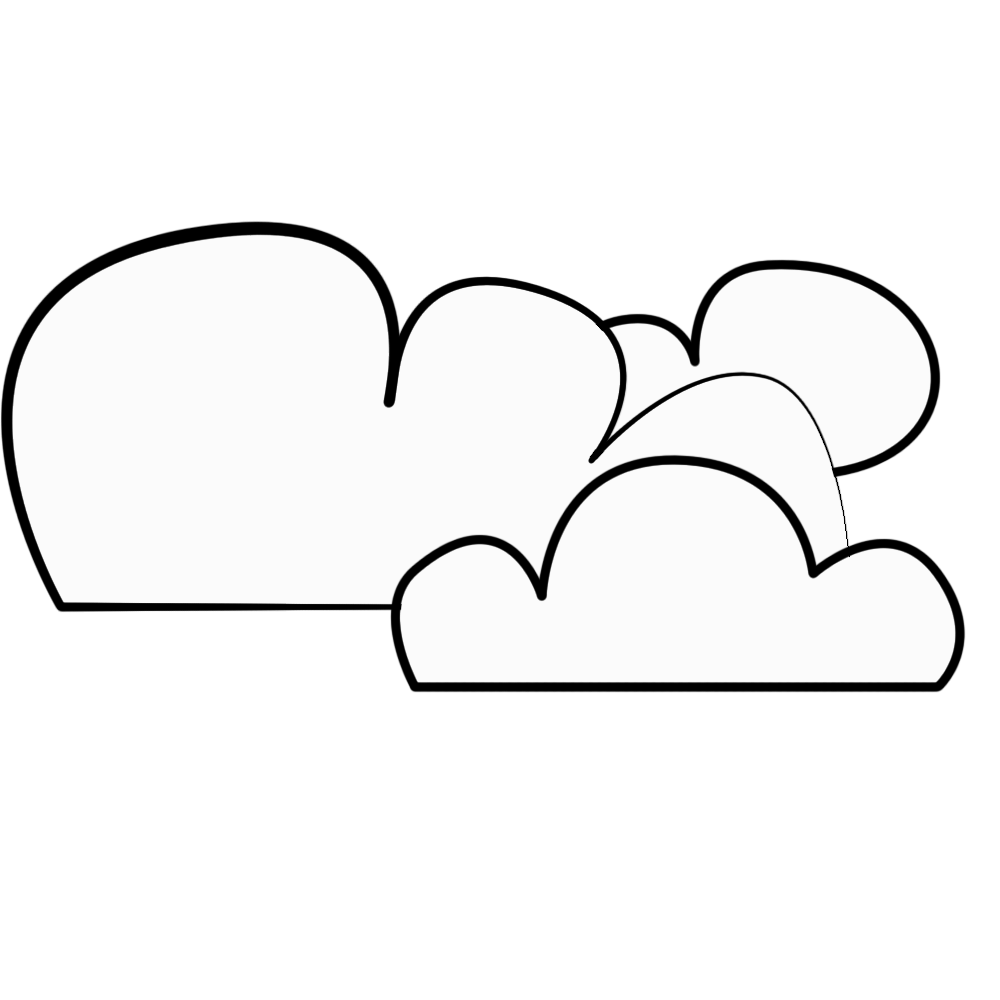
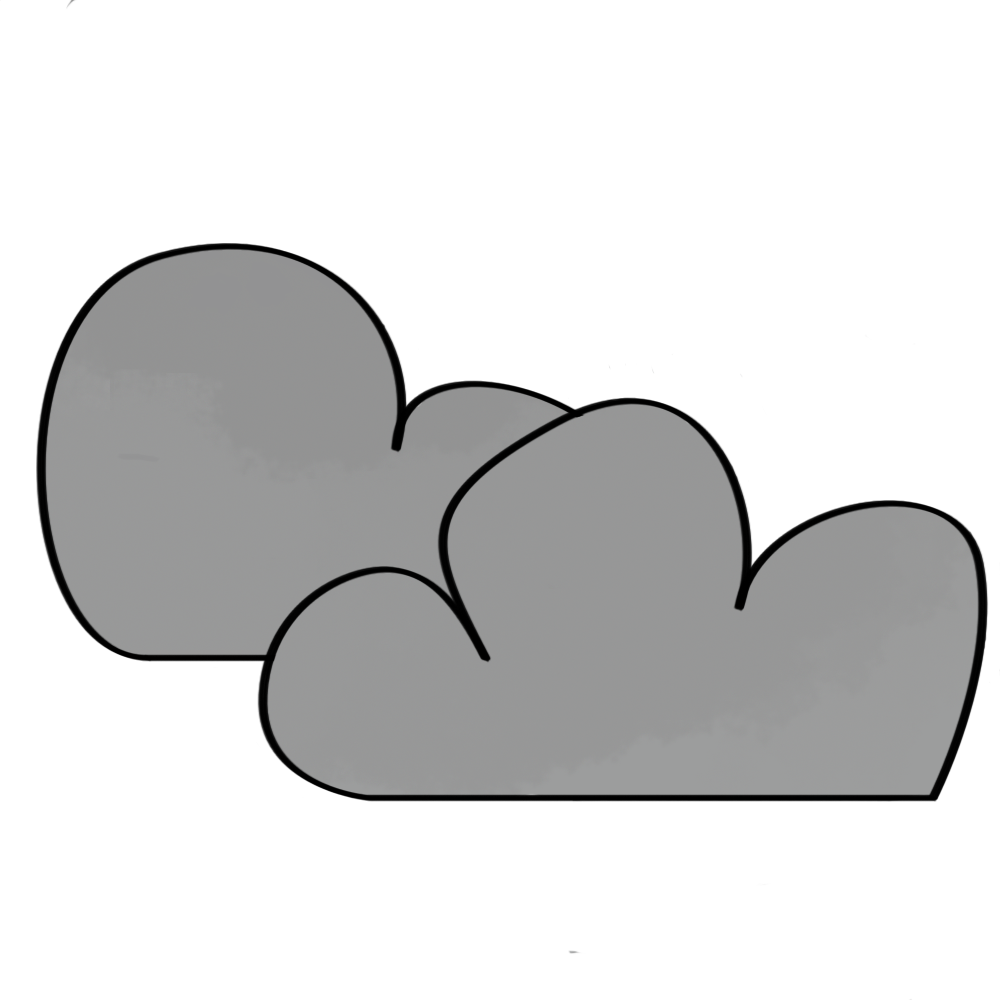
Current tima and search
Add some more perfection for the aplication, like wind, humidity, state,change background, and added new image for the storm, raind, snow, nuvole

diff --git a/src/index.js b/src/index.js
@@ -13,7 +13,7 @@ function currentTime() {
   let hour = currentDate.getHours();
   let minute = currentDate.getMinutes();
   if (minute < 10) {
-    minute = `0${minutes}`;
+    minute = `0${minute}`;
   }
   let dayForm = document.querySelector("#date-content");
   dayForm.innerHTML = `${day} ${hour}:${minute}`;
@@ -39,6 +39,8 @@ function searchTemp(responsive) {
   let searchTemp = Math.round(responsive.data.main.temp);
   let h1Temp = document.querySelector(".current-temperature");
   h1Temp.innerHTML = `${searchTemp} C°`;
+  infoState(responsive);
+  changeBK(searchTemp);
 }
 
 //funzione per cambiare da F a C e viceversa
@@ -50,6 +52,8 @@ function changeTempType(event) {
   let changeType = document.querySelector(".current-temperature"); //per cambiare l'h1
 
   let temp = changeType.textContent.substring(0, 2); //leggo i gradi
+  let change = Math.round(((temp - 32) * 5) / 9);
+  changeBK(change);
 
   //se il tipo è c allora converto tutto
   if (typeTemp.textContent === "°C") {
@@ -70,7 +74,7 @@ function changeTempType(event) {
 function getCurrentTemperature() {
   navigator.geolocation.getCurrentPosition(positionNow);
 }
-
+//posizione attuale
 function positionNow(position) {
   let latitude = position.coords.latitude;
   let longitude = position.coords.longitude;
@@ -80,7 +84,7 @@ function positionNow(position) {
 
   axios.get(urlApi).then(currentTemp);
 }
-
+//temperatura del posto in cui si trova - corrente/attuale
 function currentTemp(responsive) {
   let temp = Math.round(responsive.data.main.temp - 273.15); //ha i kelvin in temperatura ecosi si converte in celsius
   let city = responsive.data.name;
@@ -90,13 +94,44 @@ function currentTemp(responsive) {
 
   h1City.innerHTML = city;
   h1Temp.innerHTML = temp + "°C";
+  changeBK(temp);
+  infoState(responsive);
 }
+//altre info -wind-stat-prec
+function infoState(responsive) {
+  let stateInfo = document.querySelector("#state-info");
+  let windInfo = document.querySelector("#wind-info");
+  let humidityInfo = document.querySelector("#humidity-info");
+  //let nuvoleInfo = document.querySelector(".state-info");
+  let getDescription = responsive.data.weather[0].description;
 
+  stateInfo.innerHTML = getDescription;
+
+  let getWind = Math.round(responsive.data.wind.speed);
+  windInfo.innerHTML = getWind;
+  let getHumidity = Math.round(responsive.data.main.humidity);
+  humidityInfo.innerHTML = getHumidity;
+  //let getnuvole = responsive.data.clouds;
+}
+//cambio background
+function changeBK(info) {
+  let backgroundChange = document.querySelector(".main");
+  let backgroundHTML = document.querySelector("html");
+  let backgroundBody = document.querySelector("body");
+  if (info >= 20) {
+    backgroundChange.style.backgroundImage = "url(img/bk-hot.png)";
+    backgroundHTML.style.backgroundColor = "rgb(230, 204, 174)";
+    backgroundBody.style.background = "rgb(230, 204, 174)";
+  } else {
+    backgroundChange.style.backgroundImage = `url(img/bk-cold.png)`;
+    backgroundHTML.style.backgroundColor = "#97ddd8";
+    backgroundBody.style.background = "#97ddd8";
+  }
+}
+currentTime();
 //searchbutton
 let cityForm = document.querySelector("#city-form");
 cityForm.addEventListener("submit", searchCity);
-
-currentTime();
 
 //change temp type f c
 let typeTemp = document.querySelector("#current-type");

diff --git a/index.html b/index.html
@@ -3,7 +3,7 @@
   <head>
     <title>Meteo</title>
     <meta charset="UTF-8" />
-     <script src="https://unpkg.com/axios/dist/axios.min.js"></script>
+    <script src="https://unpkg.com/axios/dist/axios.min.js"></script>
 
     <link
       href="https://cdn.jsdelivr.net/npm/bootstrap@5.0.1/dist/css/bootstrap.min.css"
@@ -31,16 +31,21 @@
       </form>
 
       <div class="row today">
-        <div class="col centro">
-        <h2>Sun</h2>
-        <h1 class="current-temperature">27° C       </h1>  <a href="#" id="current-type">°F</a>  <p class>
-          wind: 14km/h <br />
-         <span id="date-content">current time: 15:00</span> 
-         </p>
-</div>
-<div class="col">
-        <img src="img/sun.png" class="current-img" /><br /></div>
-       
+        <div class="col-7 centro">
+          <h2>Sun</h2>
+          <h1 class="current-temperature">27° C</h1>
+          <a href="#" id="current-type">°F</a>
+
+          <h4 id="date-content">current time: 15:00</h4>
+
+          Wind: <span id="wind-info">14</span> km/h <br />
+          Humidity: <span id="humidity-info">10</span>%<br />
+          State: <span id="state-info">Sun</span>
+        </div>
+
+        <div class="col-3">
+          <img src="img/sun.png" class="current-img" /><br />
+        </div>
       </div>
 
       <div class="row next-days">
@@ -54,20 +59,26 @@
           />26°/9°<br />Wed
         </div>
         <div class="col">
-          <img src="img/sun.png" class="next-days-img" /><p>22°/10°<br />Thu</7p>
+          <img src="img/sun.png" class="next-days-img" />
+          <p>22°/10°<br />Thu</p>
         </div>
         <div class="col">
-          <img src="img/nuvoloso.png" class="next-days-img" /><p>28°/11°<br />Fri</p>
+          <img src="img/nuvoloso.png" class="next-days-img" />
+          <p>28°/11°<br />Fri</p>
         </div>
         <div class="col">
-          <img
-            src="img/sole-nuvoloso.png"
-            class="next-days-img"
-          /><p>24+/12°<br />Sat</p>
+          <img src="img/sole-nuvoloso.png" class="next-days-img" />
+          <p>24°/12°<br />Sat</p>
         </div>
       </div>
     </div>
-    <footer>This code was coded by Stefanie Anselmi. <a href="https://github.com/Stefi-94/projetc-meteo" target="_blank">open-sourced on GitHub </a>- hosted by <a target="_blank" href="https://www.netlify.com/">netifly</a></footer>
+    <footer>
+      This code was coded by Stefanie Anselmi.
+      <a href="https://github.com/Stefi-94/projetc-meteo" target="_blank"
+        >open-sourced on GitHub </a
+      >- hosted by
+      <a target="_blank" href="https://www.netlify.com/">netifly</a>
+    </footer>
 
     <script src="src/index.js"></script>
   </body>

diff --git a/style/style.css b/style/style.css
@@ -1,10 +1,15 @@
-.main {
+html,
+body {
   font-family: "Londrina Solid", cursive;
-  background-image: url("../img/sole.jpg");
+  background-color: rgb(230, 204, 174);
+}
+.main {
+  background-image: url("../img/bk-hot.png");
   background-repeat: no-repeat;
   background-size: cover;
   background-position: 50% 0;
-  color: white;
+  color: rgb(255, 255, 255);
+  border-radius: 40px;
 }
 
 h1,
@@ -18,7 +23,7 @@ h3 {
   top: 0;
   right: 0px;
   position: relative;
-  width: 50%;
+  width: 100%;
 }
 .centro h2,
 h1 {
@@ -26,6 +31,7 @@ h1 {
 }
 footer {
   text-align: center;
+  font-size: small;
 }
 .main a {
   color: #d5d5d5;
@@ -42,7 +48,11 @@ footer {
   opacity: 0.33;
   border-radius: 40px;
 }
-
+.today {
+  padding: 5%;
+  margin: 0px auto;
+  width: 100%;
+}
 form {
   margin: 50px;
   float: right;
@@ -57,7 +67,6 @@ form {
   font-size: 25px;
 }
 .centro {
-  padding-top: 10%;
   text-align: center;
 }
 #h1-city {
@@ -80,4 +89,7 @@ form {
   background: #fff;
   color: #70a5eb;
   border-radius: 30px;
+}
+#state-info {
+  text-transform: capitalize;
 }
